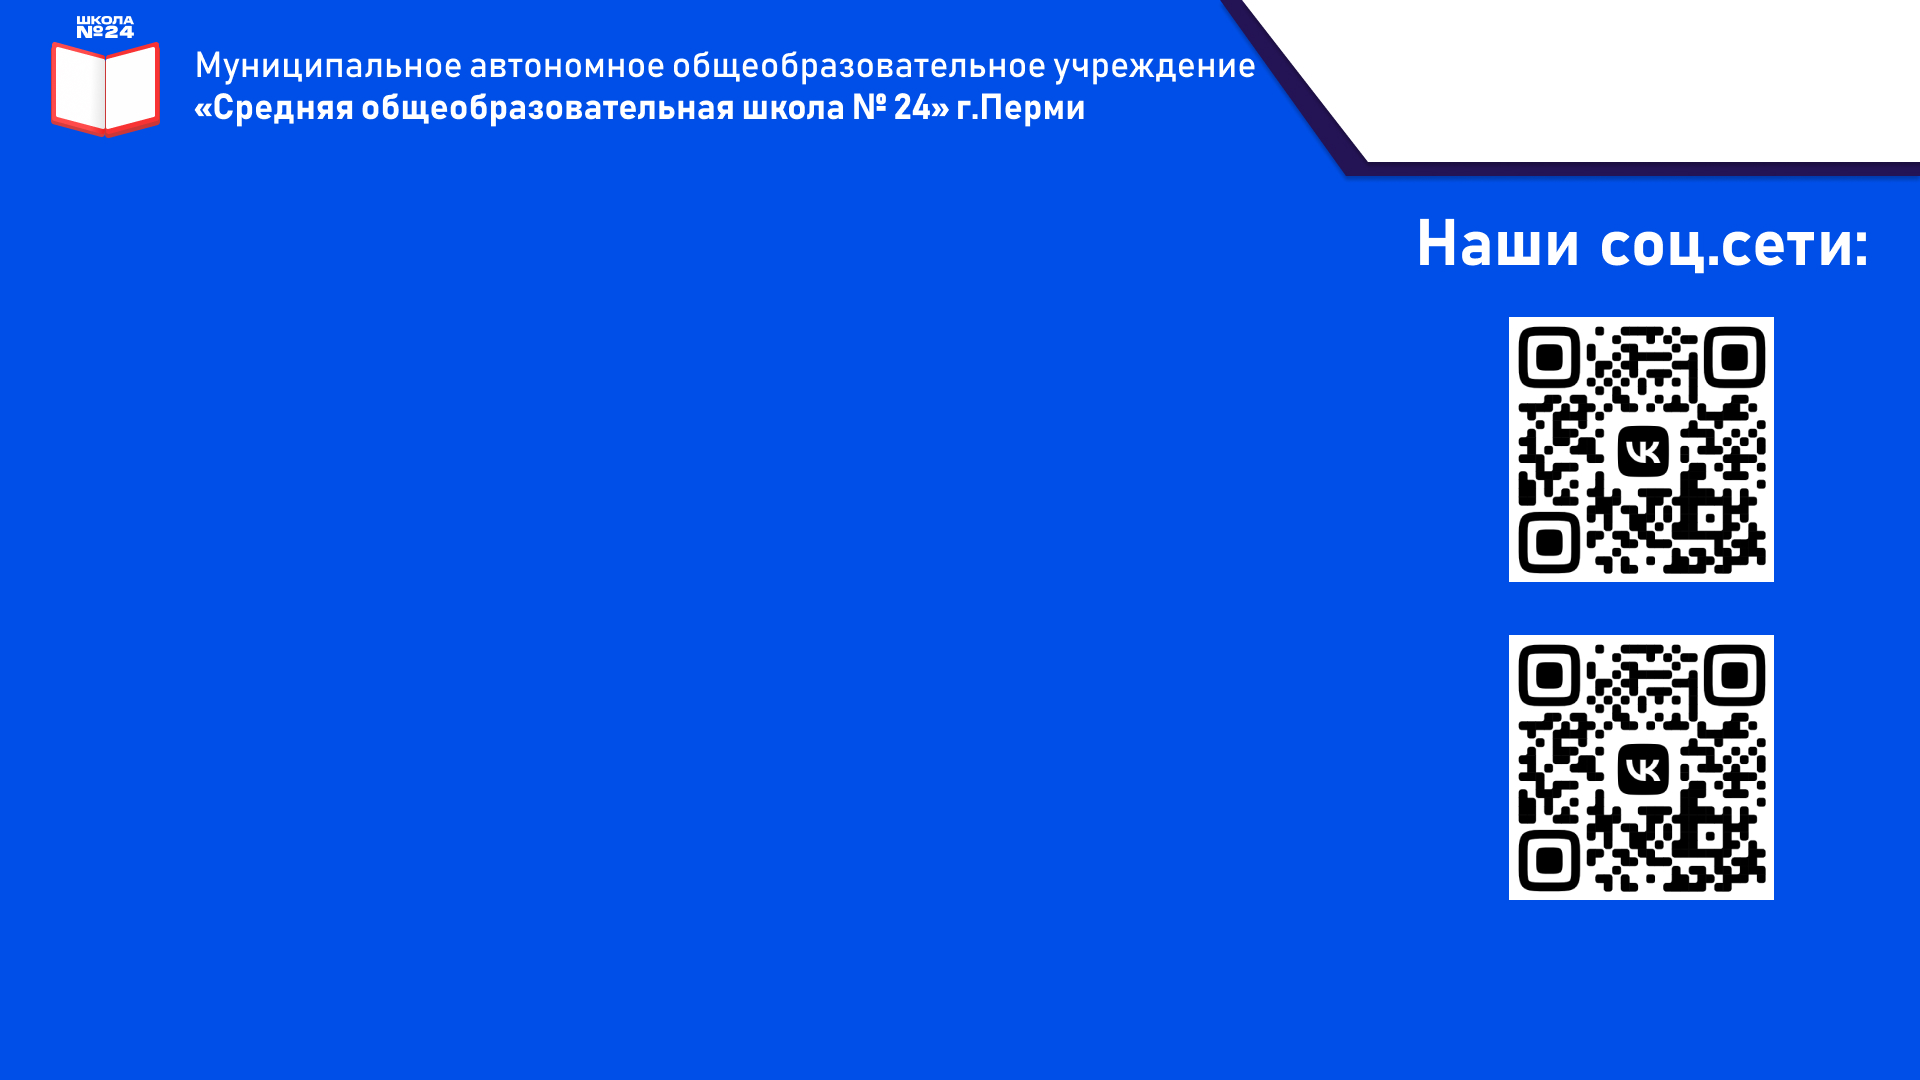
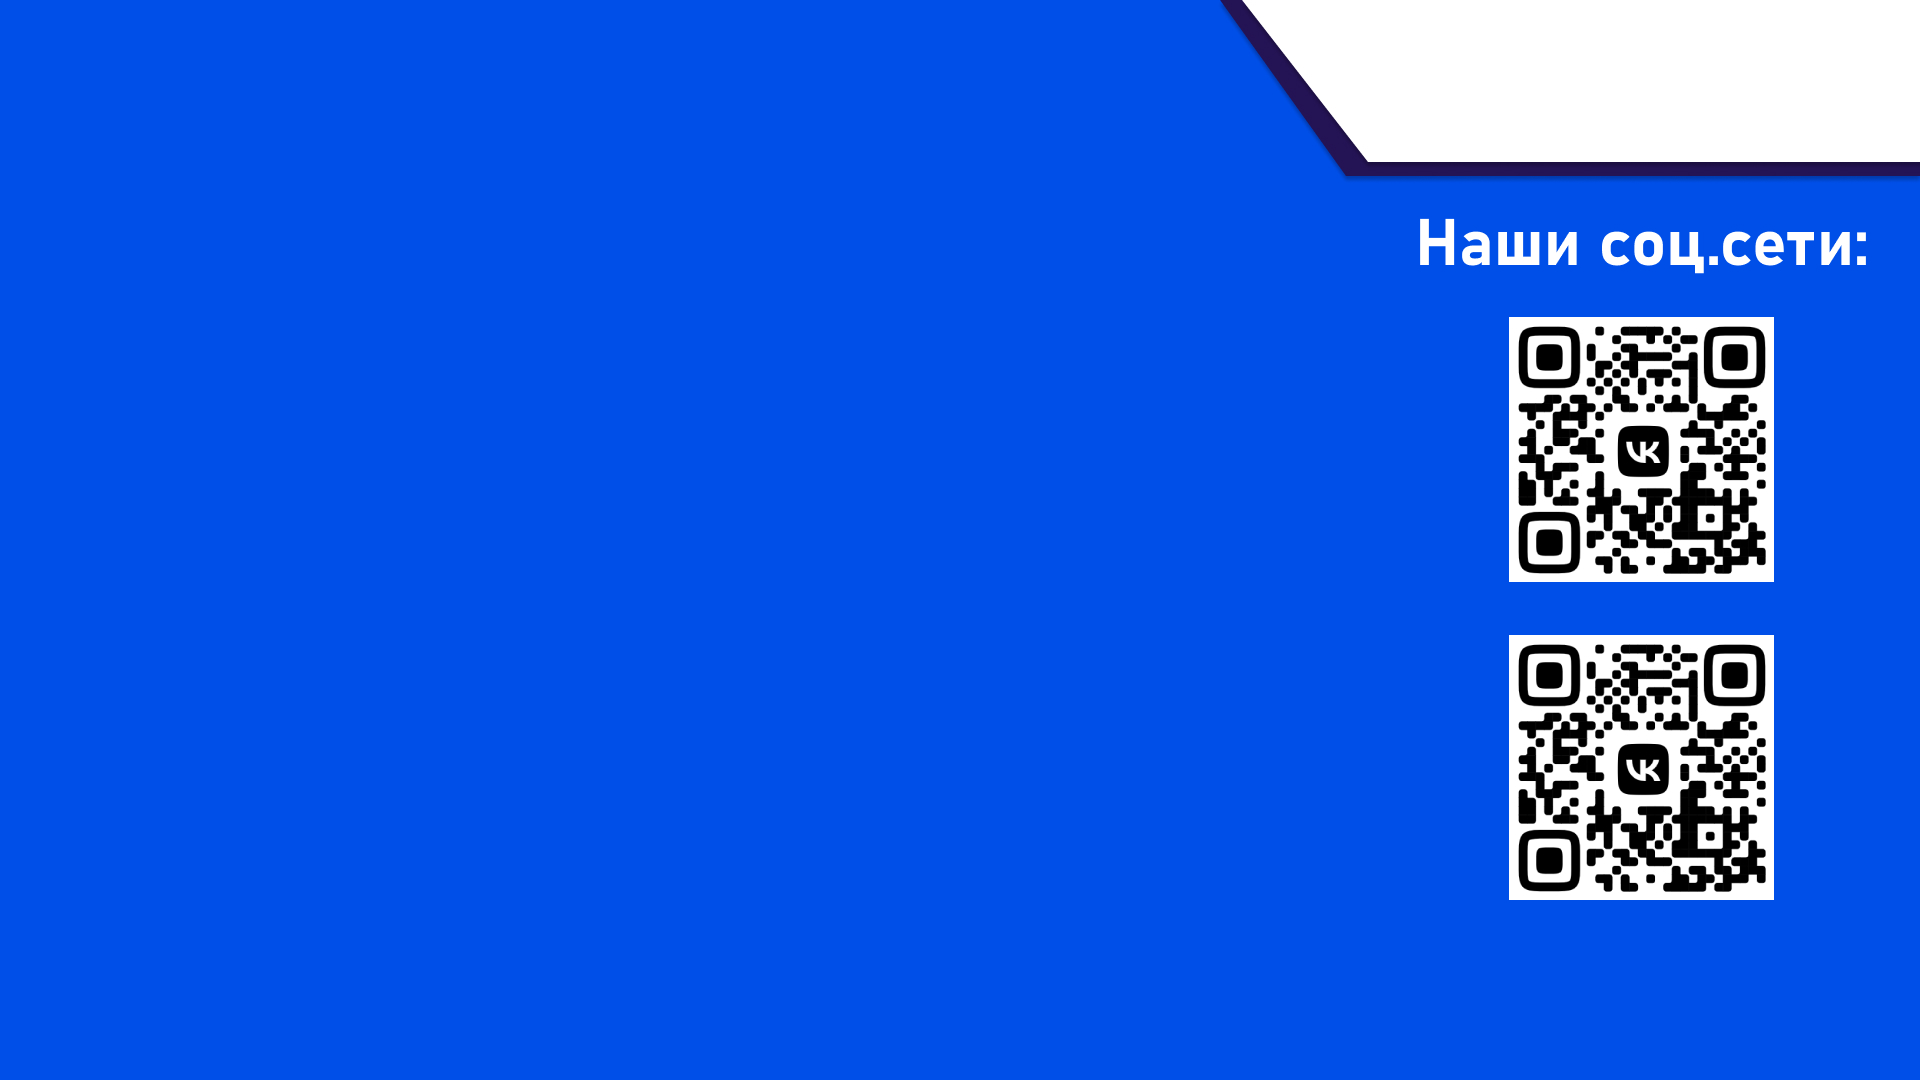
FixAll

Changed region(s): [[0.0, 0.0, 0.6562, 0.1222]]

diff --git a/src/script.js b/src/script.js
@@ -11,16 +11,15 @@ let interval_data = setInterval(process_data, mediaDuration * 1000);
 /*
 Функция обновления текста в блоке с часами
 */
-function update_clock(){
-    months = ["января","февраля","марта","апреля","мая","июня","июля","августа","сентября","октября","ноября","декабря"];
-    daysOfWeek = ["Понедельник","Вторник","Среда","Четверг","Пятница","Суббота","Воскресение"];
+function update_clock() {
+    let months = ["января", "февраля", "марта", "апреля", "мая", "июня", "июля", "августа", "сентября", "октября", "ноября", "декабря"];
+    let daysOfWeek = ["Воскресенье", "Понедельник", "Вторник", "Среда", "Четверг", "Пятница", "Суббота"];
+    let time = new Date();
+    let thisMonth = months[time.getMonth()];
+    let day = time.getDate();
+    let dayOfWeek = time.getDay();
 
-    var time = new Date();
-    var thismonth = months[time.getMonth() + 1];
-    var day = time.getDay() + 1;
-    var dayOfWeek =  time.getDay();
-
-    document.getElementById('clock__date').innerHTML = day + ' ' + thismonth;
+    document.getElementById('clock__date').innerHTML = day + ' ' + thisMonth;
     document.getElementById('clock__time').innerHTML = daysOfWeek[dayOfWeek] + ' ' + time.getHours() + ':' + time.getMinutes();
 }
 
@@ -35,17 +34,17 @@ function process_data() {
         let mediaElement = document.getElementById("media_block");
         clearInterval(interval_data);
 
-        if(data['media'][currentMedia].endsWith("jpg") || data['media'][currentMedia].endsWith("JPG") || data['media'][currentMedia].endsWith("png") || data['media'][currentMedia].endsWith("gif")) {
-            media_str = '<img class="media" src="/media/' + data['media'][currentMedia] + '">';
+        if (data['media'][currentMedia].endsWith("jpg") || data['media'][currentMedia].endsWith("JPG") || data['media'][currentMedia].endsWith("png") || data['media'][currentMedia].endsWith("gif")) {
+            media_str = '<img alt="media" class="media" src="/media/' + data['media'][currentMedia] + '">';
             interval_data = setInterval(process_data, mediaDuration * 1000);
         } else {
-            media_str = '<video id="mvideo" class="media" width=500px src="/media/'+ data['media'][currentMedia] + '" autoplay muted>Видео не поддерживвается</video>';
+            media_str = '<video id="mvideo" class="media" width=500px src="/media/' + data['media'][currentMedia] + '" autoplay muted>Видео не поддерживвается</video>';
             //var video = document.createElement('video');
             //video.preload = 'metadata';
             //video.onloadedmetadata = function () {
             //    window.URL.revokeObjectURL(video.src);
-                //alert("Duration : " + video.duration + " seconds");
-                interval_data = setInterval(process_data, mediaDuration * 1000);
+            //alert("Duration : " + video.duration + " seconds");
+            interval_data = setInterval(process_data, mediaDuration * 1000);
             //}
             //video.src = URL.createObjectURL('/media/' + data['media'][currentMedia]);0
         }
@@ -58,7 +57,7 @@ function process_data() {
 
 function get_data() {
     //Создаем функцию обработчик
-    var Handler = function(Request) {
+    var Handler = function (Request) {
         var obj = JSON.parse(Request.responseText);
         data = obj;
 
@@ -68,32 +67,28 @@ function get_data() {
     SendRequest('GET', '/server/', '', Handler);
 }
 
-setInterval(GetData, 30000);
-GetData()
+setInterval(get_data, 30000);
+get_data()
 
 //Создает подходящий тип запроса AJAX, Если есть GECKO то XMLHttpRequest, если нет ActiveXObject
 function CreateRequest() {
-    var Request = false;
-    if (window.XMLHttpRequest) {
-        //Gecko-совместимые браузеры, Safari, Konqueror
+    let Request = false;
+    if (window.XMLHttpRequest) {        //Cовместимые браузеры
         Request = new XMLHttpRequest();
-    }
-    else if (window.ActiveXObject) {
-        //Internet explorer
+    } else if (window.ActiveXObject) {  //Internet explorer
         try {
             Request = new ActiveXObject("Microsoft.XMLHTTP");
-        }    
-        catch (CatchException) {
+        } catch (CatchException) {
             Request = new ActiveXObject("Msxml2.XMLHTTP");
         }
     }
- 
+
     if (!Request) {
         alert("Невозможно создать XMLHttpRequest");
     }
-        
+
     return Request;
-} 
+}
 
 /*
 Функция посылки запроса к файлу на сервере
@@ -102,44 +97,39 @@ r_path    - путь к файлу
 r_args    - аргументы вида a=1&b=2&c=3...
 r_handler - функция-обработчик ответа от сервера
 */
-function SendRequest(r_method, r_path, r_args, r_handler)
-{
+function SendRequest(r_method, r_path, r_args, r_handler) {
     //Создаём запрос
-    var Request = CreateRequest();
+    let Request = CreateRequest();
 
     //Назначаем пользовательский обработчик
-    Request.onreadystatechange = function()
-    {
+    Request.onreadystatechange = function () {
         //Если обмен данными завершен
-        if (Request.readyState == 4)
-        {
-            if (Request.status == 200) {
+        if (Request.readyState === 4) {
+            if (Request.status === 200) {
                 //Передаем управление обработчику пользователя
                 r_handler(Request);
-            }
-            else {
+            } else {
                 //Оповещаем пользователя о произошедшей ошибке
                 alert('Произошла ошибка при выполнении запроса');
             }
         }
     }
-    
+
     //Проверяем, если требуется сделать GET-запрос
-    if (r_method.toLowerCase() == "get" && r_args.length > 0)
-    r_path += "?" + r_args;
-    
+    if (r_method.toLowerCase() === "get" && r_args.length > 0)
+        r_path += "?" + r_args;
+
     //Инициализируем соединение
     Request.open(r_method, r_path, true);
-    
-    if (r_method.toLowerCase() == "post") {
+
+    if (r_method.toLowerCase() === "post") {
         //Если это POST-запрос
-        
+
         //Устанавливаем заголовок
-        Request.setRequestHeader("Content-Type","application/x-www-form-urlencoded; charset=utf-8");
+        Request.setRequestHeader("Content-Type", "application/x-www-form-urlencoded; charset=utf-8");
         //Посылаем запрос
         Request.send(r_args);
-    }
-    else {
+    } else {
         //Если это GET-запрос
         //Посылаем нуль-запрос
         Request.send(null);

diff --git a/src/style.css b/src/style.css
@@ -1,90 +1,95 @@
-@font-face { font-family: sch24perm_font; src: url(Bahnschrift.ttf);}
+@font-face {
+    font-family: sch24perm_font;
+    src: url(Bahnschrift.ttf);
+}
 
-html,body {
+html, body {
     margin: 0;
     padding: 0;
-    color: rgb(255, 255, 255);
     font-family: sch24perm_font, sans-serif;
 }
 
 body {
-	color: rgb(0, 0, 0);
-	font-size: 1rem;
-	background-image: url('/src/bg.jpg');
-	background-repeat: no-repeat;
-	background-size: cover;
-	height: 100%;
+    color: white;
+    font-size: 1rem;
+    background-image: url('/src/bg.jpg');
+    background-repeat: no-repeat;
+    background-size: cover;
+    height: 100%;
     width: 100%;
     overflow: hidden;
 }
 
 header {
-	height: 15vh;
-	display: flex;
-	justify-content: space-between;
+    height: 15vh;
+    display: flex;
+    justify-content: space-between;
 }
 
 main {
-	height: 76vh;
-	display: flex;
+    height: 76vh;
+    display: flex;
 }
 
 footer {
-	height: 9vh;
-	color: white;
-	background: rgb(153, 0, 0);
-	font-size: 7.5vh;
-}
-
-.brand
-
-.inner-footer1 {
-	height: 5vh;
-}
-
-.inner-footer2 {
-	color: white;
-	background: rgb(153, 0, 0);
-	height: 10vh;
-	font-size: 2rem;
+    height: 9vh;
+    background: rgb(153, 0, 0);
+    font-size: 7.5vh;
 }
 
 .content3 {
-	width: auto;
-	height: 100%;
+    width: auto;
+    height: 100%;
 }
 
 .media {
-	width: 100vh;
-	border-radius: 3vh; 
+    width: 100vh;
+    border-radius: 3vh;
 }
 
 .media_block {
-	width: 60vw;
-	min-height: 60vh;
-	padding: 40px;
+    width: 60vw;
+    min-height: 60vh;
+    padding: 5vh;
 }
 
-.logo {
-	width: 100%;
+/* BRAND START */
+.brand {
+    display: grid;
+    grid-template-columns: min-content 1fr;
+    color: inherit;
+    line-height: 1;
+    text-decoration: none;
+    column-gap: 1vh;
+    height: 100%;
+    margin: 0 1vw;
+    flex-grow: 1;
+    font-size: 3.3vh;
 }
 
+.brand__logo {
+    width: 14vh;
+    margin: 1vh;
+    grid-row: span 2;
+}
+
+.brand__title {
+    margin: 0;
+    align-self: flex-end;
+}
+
+.brand__tagline {
+    margin: 0;
+    font-weight: bold;
+    align-self: flex-start;
+}
+/* BRAND END */
 
 /* CLOCK START */
-
 .clock {
-	width: 30vw;
-	text-align: center;
-	font-size: 6vh;
-	color: black;
+    width: 30vw;
+    text-align: center;
+    font-size: 6vh;
+    color: black;
 }
-
-.clock__date {
-
-}
-
-.clock__time {
-
-}
-
 /* CLOCK END */

diff --git a/client/index.html b/client/index.html
@@ -9,9 +9,9 @@
 <body>
 <header>
     <div class="brand">
-        <!-- <img src="/src/logo.png" align="left"> -->
-        <span>Муниципальное автономное общеобразовательное учреждение</span><br>
-        <!-- <span>«Средняя общеобразовательная школа № 24» г.Перми</span> -->
+        <img class="brand__logo" src="/src/logo.svg">
+        <p class="brand__title">Муниципальное автономное общеобразовательное учреждение</p>
+        <p class="brand__tagline">«Средняя общеобразовательная школа № 24» г.Перми</p>
     </div>
     <div class="clock">
         <span id="clock__date"></span><br>
@@ -21,10 +21,8 @@
 <main>
     <div class="inner-content1 media_block" id="media_block"></div>
     <div class="content3">
-        <div class="inner-content3">
             <script async src="https://telegram.org/js/telegram-widget.js?19" data-telegram-post="sch24perm/114" data-width="100%">
             </script>
-        </div>
             <!-- <img class="qr" src="/src/QR_VK.png"> -->
         <div class="inner-content1">
             <a class="nuipogoda-iframe-informer" data-nuipogoda="informer2" href="https://perm.nuipogoda.ru" style="width:284px;height:326px;display:block;box-shadow: 0 0 5px #999;">погодный информер</a>
@@ -41,11 +39,9 @@
     </div>
 </main>
 <footer>
-
     <marquee scrollamount="20"; scrolldelay="0">
         Внимание! В связи с пандемией COVID-19, убедильная просьба соблюдать профилактические меры - масочный режим и дистанцию не менее 1 метра)!!!
     </marquee>
-    </div>
 </footer>
 </body>
 </html>
